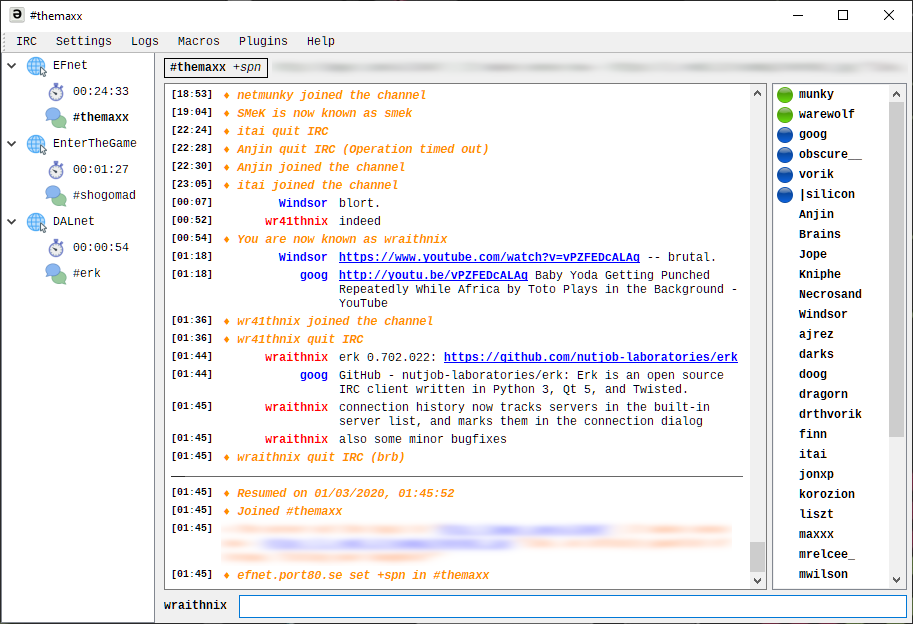
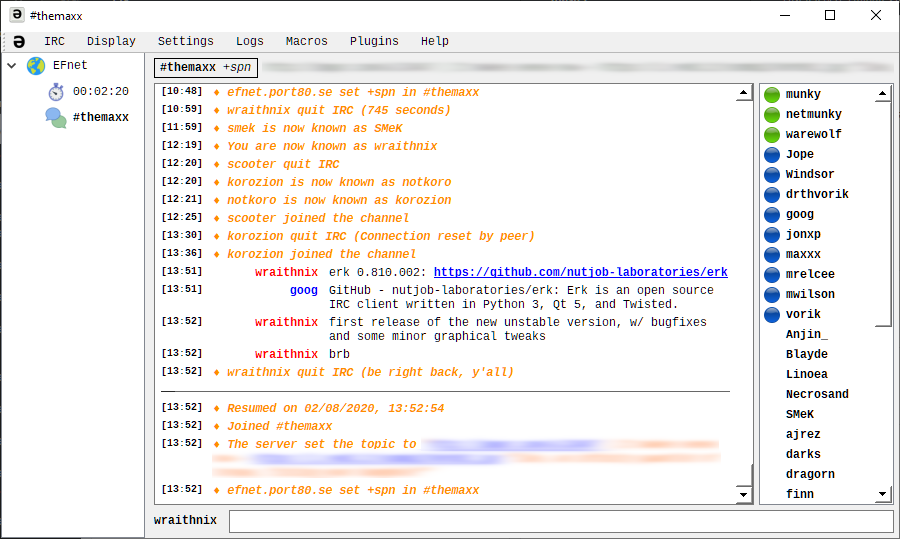
Updated README.md

Changed region(s): [[0.0, 0.0, 1.0, 1.0], [0.9022, 0.0, 0.9333, 0.0297]]

diff --git a/README.md b/README.md
@@ -14,7 +14,7 @@
 
 <p align="center">
 	<a href="https://github.com/nutjob-laboratories/erk/raw/master/images/screenshot_full.png"><img src="https://github.com/nutjob-laboratories/erk/raw/master/images/screenshot.png"></a><br>
-	<b>Erk connected to EFnet, EnterTheGame, and DALnet</b><br>
+	<b>Erk connected to EFnet</b><br>
 	<i>Click image to enlarge</i><br>
 </p>
 
@@ -51,6 +51,7 @@
 	* **Erk** features a complete plugin [IDE](https://en.wikipedia.org/wiki/Integrated_development_environment), built into the client!
 		* Text editor with syntax highlighting
 		* Tools to create, package, and export plugin packages
+		* Create a basic plugin with two mouse clicks!
 	* [Plugin documentation](https://github.com/nutjob-laboratories/erk/blob/master/documentation/Erk_Plugin_Guide.pdf) is included...no trying to figure out how to write a plugin from endless forum posts!
 	* Plugins can be found in the [official **Erk** plugin repository](https://github.com/nutjob-laboratories/erk-plugins)
 * An extensive set of command-line flags, allowing for _even more_ configuration options
